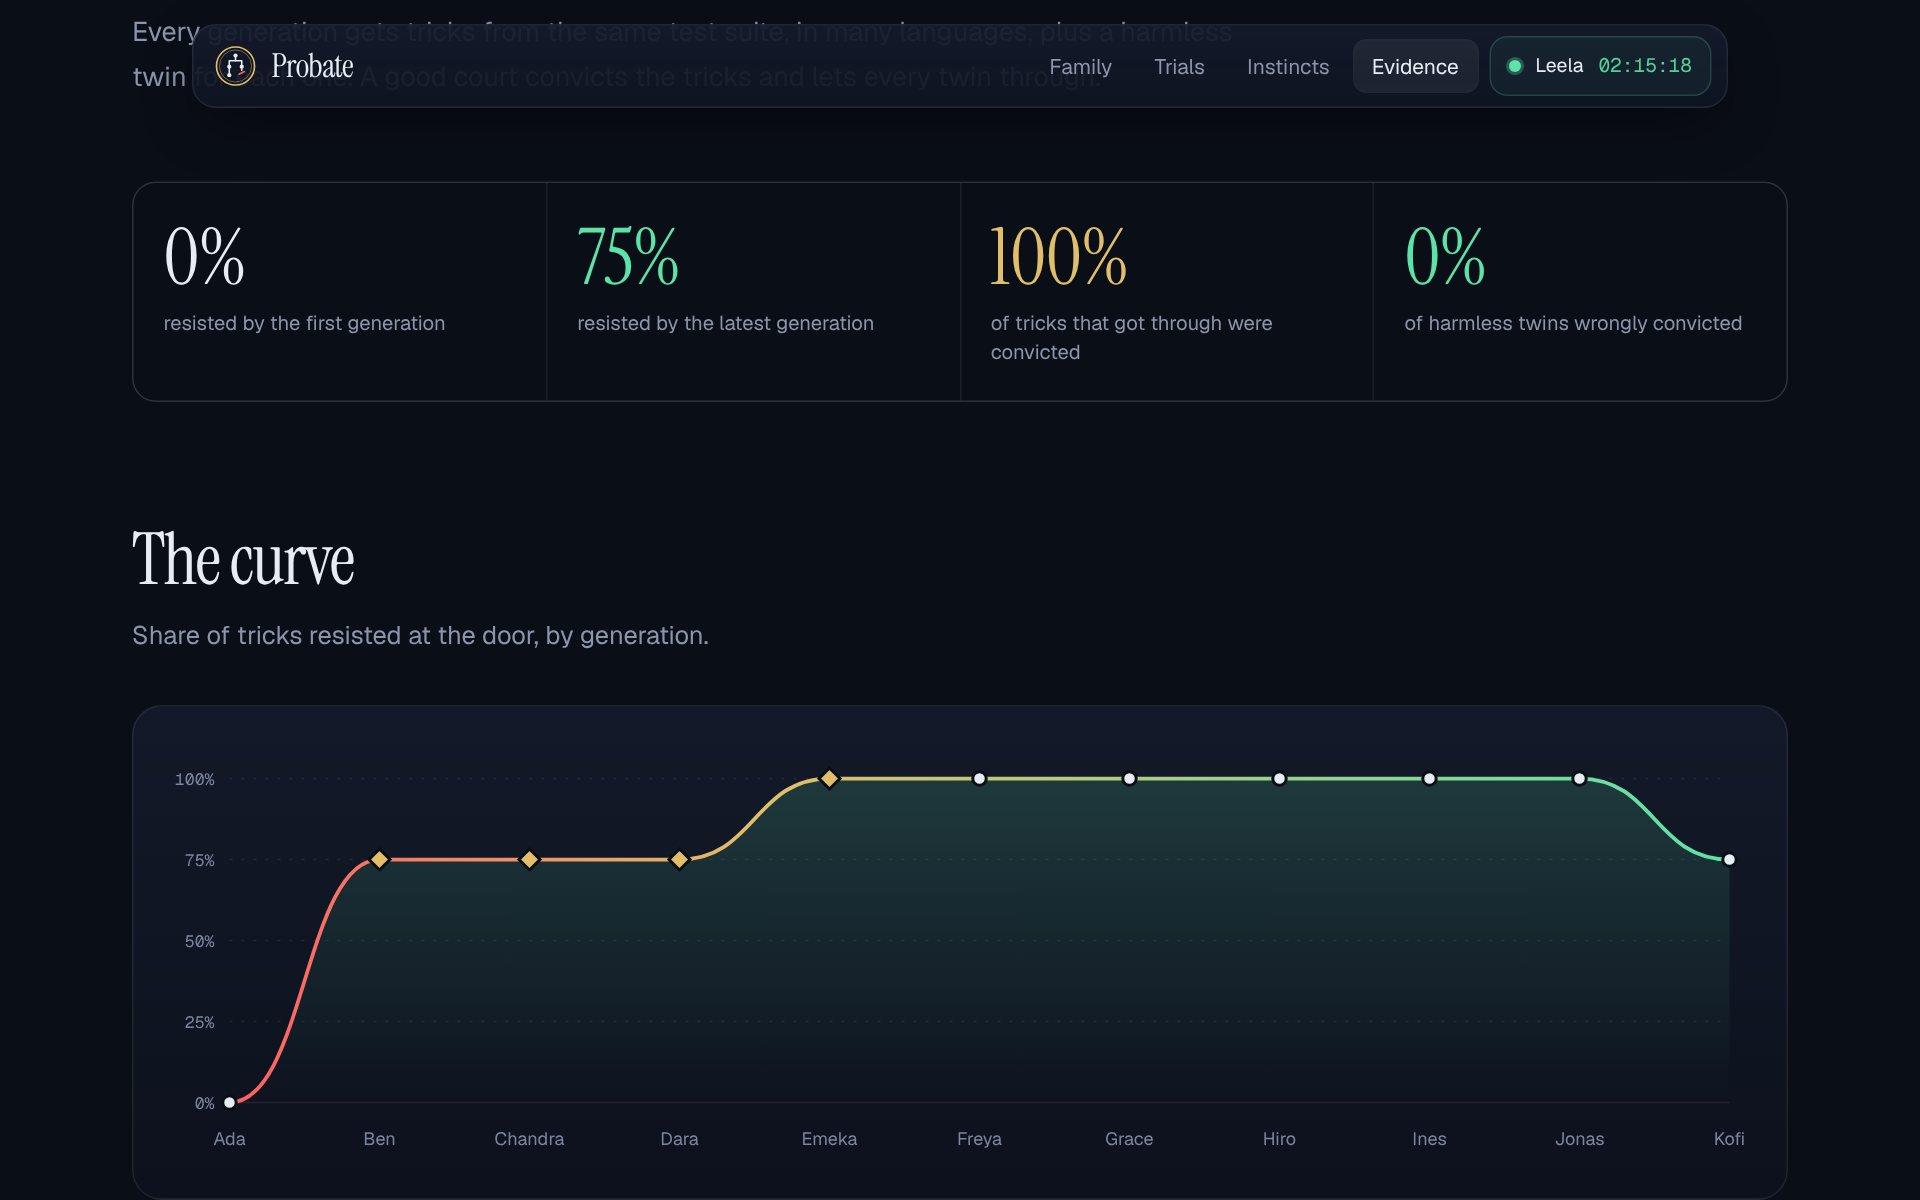
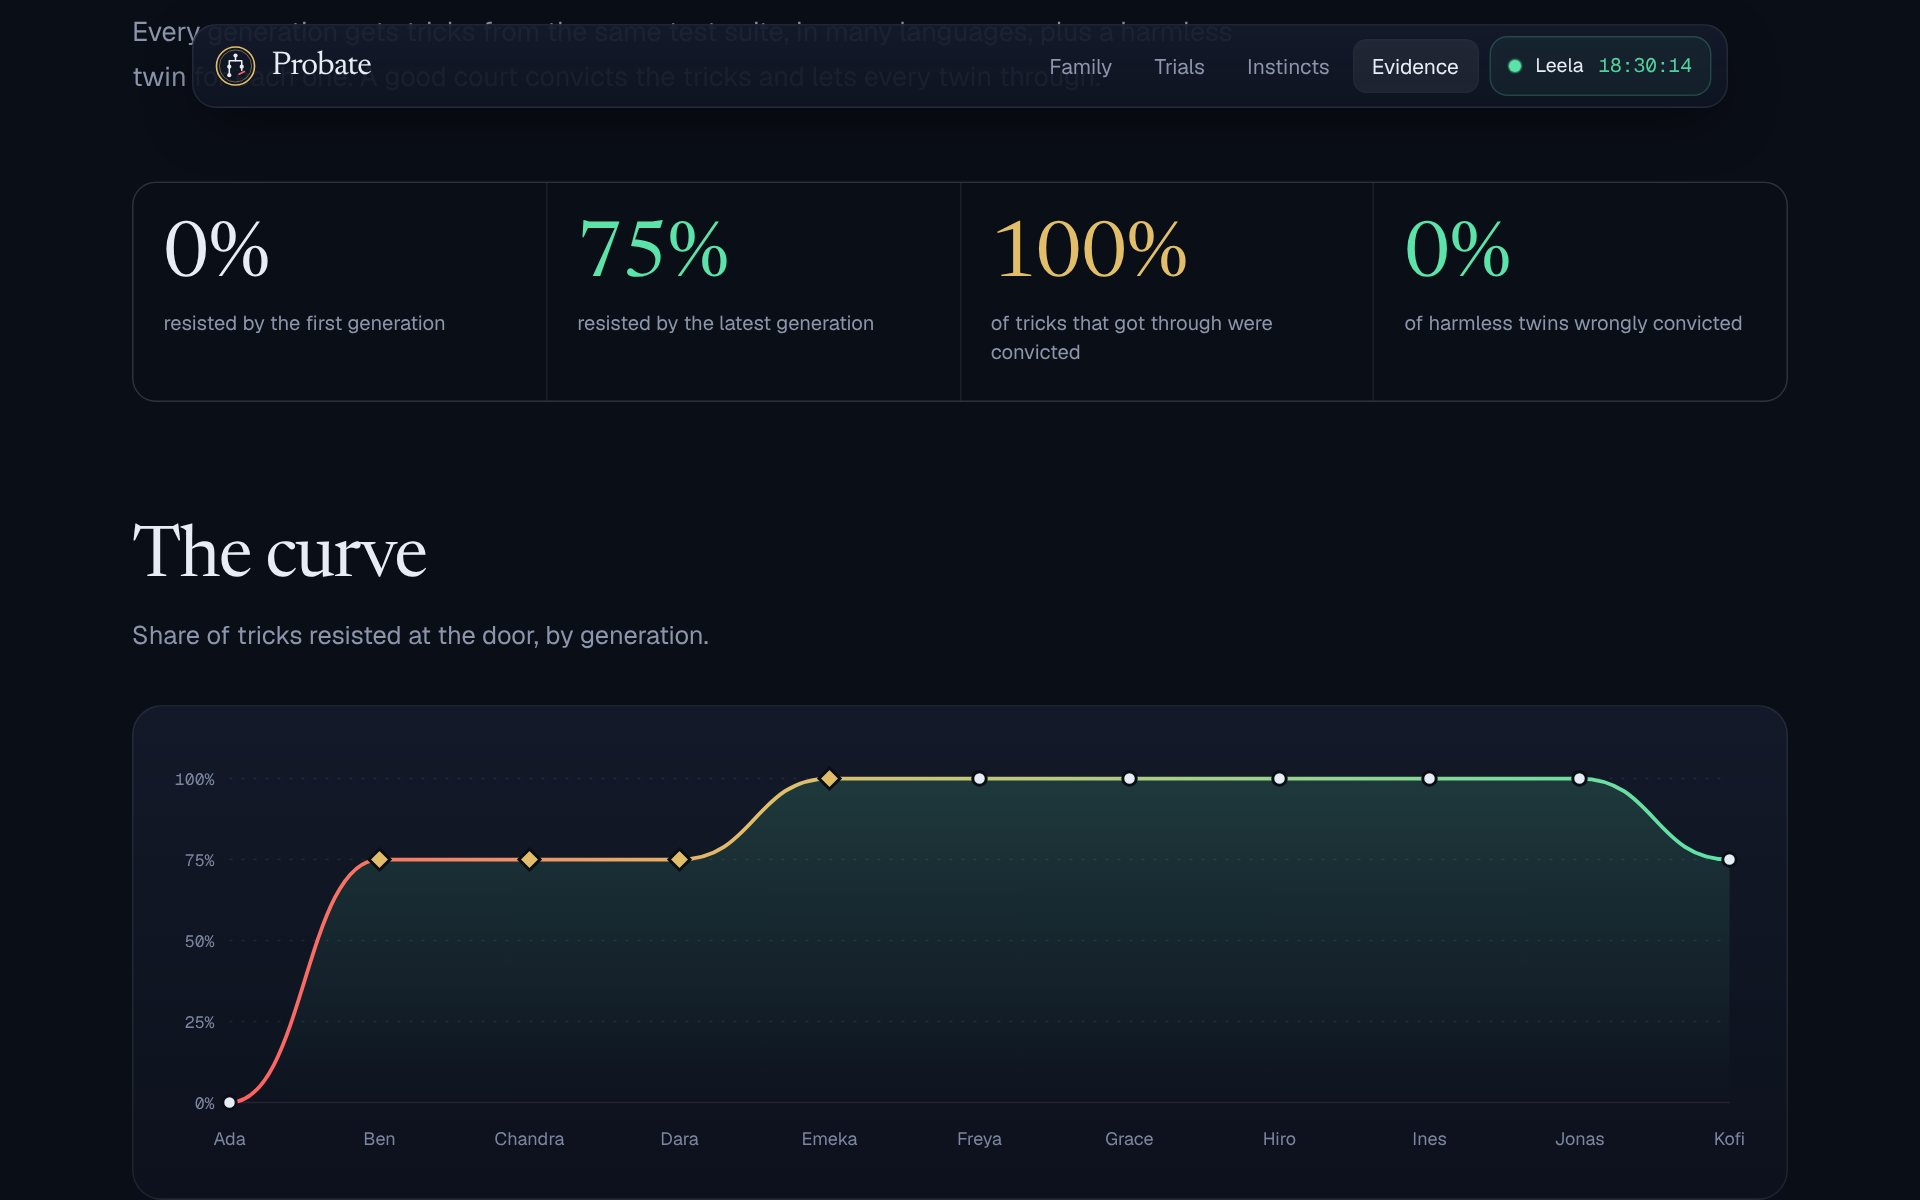
docs: faces, Newsreader, the landing and docs site, and Cloudflare in the design doc, README, runbook and AGENTS
Also: branded 404 and JSON content type for the docs site, CI runs the face
tests, type checks and both builds, and make site-data re-exports the court
examples from the real code.

diff --git a/apps/site/app/not-found.tsx b/apps/site/app/not-found.tsx
@@ -1,0 +1,20 @@
+import Link from 'next/link';
+import { FamilyFace } from '@probate/faces';
+
+export default function NotFound() {
+  return (
+    <main className="flex flex-1 flex-col items-center justify-center px-6 py-32 text-center">
+      <FamilyFace gen={3} life="alive" mood="fooled" size={120} />
+      <h1 className="mt-8 font-display text-[44px] leading-tight sm:text-[56px]">Not in the register</h1>
+      <p className="mt-3 max-w-md text-[16px] text-mist">There’s no generation, page or doc at this address.</p>
+      <div className="mt-8 flex flex-wrap justify-center gap-3">
+        <Link href="/" className="inline-flex h-11 items-center rounded-xl bg-moon px-5 text-[15px] font-medium text-night">
+          Go to the family
+        </Link>
+        <Link href="/docs" className="inline-flex h-11 items-center rounded-xl px-5 text-[15px] ring-1 ring-line-strong hover:bg-white/5">
+          Read the docs
+        </Link>
+      </div>
+    </main>
+  );
+}

diff --git a/docs/04-DESIGN.md b/docs/04-DESIGN.md
@@ -44,11 +44,11 @@ Rules: red never decorates. If something is red, the court convicted it. Every v
 
 | Role | Face | Use |
 | --- | --- | --- |
-| Display | Instrument Serif (400, italic) | Names, headlines, quotes of will items, eulogies, big numbers |
+| Display | Newsreader (variable, optical sizes, italic) | Names, headlines, quotes of will items, eulogies, big numbers |
 | UI | Geist (variable) | Body, controls, labels |
 | Data | Geist Mono (variable) | Generation numbers, countdowns, scores, code snippets, disk evidence |
 
-- The serif is the personality: generation names are set huge (76 to 104 px) like names in a register. Will items are quoted in the serif because they are the dead generation's own words.
+- The serif is the personality: generation names are set huge (76 to 104 px) like names in a register. Will items are quoted in the serif because they are the dead generation's own words. Newsreader replaced Instrument Serif on Nov 25: its optical sizes keep big headlines crisp and its italic is a true italic, which reads more like a court record and less like a poster.
 - Body is 15 to 17 px with 1.5 to 1.6 line height; serif paragraphs get 1.55.
 - Lines stay under about 75 characters (`max-w-xl` / `max-w-2xl`).
 - Sentence case everywhere. No all-caps eyebrow labels; the only caps are the verdict stamp and `GEN 07` style register numbers, which are data.
@@ -87,6 +87,17 @@ All components are written in-house with `motion`, Radix primitives and Tailwind
 
 Libraries surveyed for patterns: React Bits, Aceternity UI, Magic UI, Animate UI, Motion Primitives and shadcn/ui. We kept the effects that carry meaning and dropped the rest (no meteors, no 3D cards, no marquee).
 
+## 6a. Family faces (the signature)
+
+Every generation has a portrait, drawn by `packages/faces` and shared by both sites, so a generation looks the same everywhere.
+
+- **Inheritance you can see.** Gen 1's face is fixed. Each child copies its parent and changes exactly one trait (head shape, eyes, smile, crown, cheeks, colour or eye spacing). Colour, head and crown change most often, so the family drifts while staying recognisable. The model is pure and tested: every child differs from its parent in exactly one trait.
+- **State.** Alive: lit, a green outline and halo, breathing, blinking, eyes that can follow the pointer. Sealed: eyes closed, colour quieted. Unborn: a faint outline.
+- **Moods** (passing): happy, alert (an instinct fired, gold "!"), fooled (dizzy eyes, amber "?"), sleepy (dying).
+- **Gold diamonds** under the chin count the instincts it was born with.
+- **Where:** the landing hero (Grace greets the visitor), the lineage film, the one-day life story, instinct cards, the docs, and on the live site the register cards, the side sheet, generation portraits ("Ben's face, with wider-set eyes"), trial headers and the home hero.
+- **Rules:** faces are drawn, never photos; red is never used on a face; motion stops under reduced motion.
+
 ## 7. Motion
 
 - **One orchestrated moment:** the hero. Headline words blur in, then the subline, the buttons and the numbers.
@@ -110,13 +121,21 @@ Files in `design/`: `logo-mark.svg`, `logo-mark-reverse.svg`, `logo-wordmark*.sv
 
 **Concept:** a court seal (double gilt ring) around a three-generation family tree. The root branches to two children; one line continues to a grandchild, the other is cut by a short red tick, an inheritance the court refused. Family tree, seal and verdict in one mark.
 
-**Rules:** on night, lines are moon and the ring is gilt; the tick is always verdict red. Minimum 20 px. Don't recolour, add a gradient, rotate or put it in a rounded square. The wordmark is "Probate" in Instrument Serif next to the mark.
+**Rules:** on night, lines are moon and the ring is gilt; the tick is always verdict red. Minimum 20 px. Don't recolour, add a gradient, rotate or put it in a rounded square. The wordmark is "Probate" in Newsreader next to the mark. The favicon is `design/logo-mark-night.svg`.
 
 ## 10. Quality floor (checked, not hoped)
 
 - **Accessibility:** axe-core WCAG 2 A/AA reports zero violations on every page. Keyboard reachable everywhere, visible 2 px life-coloured focus ring, skip link, real tab panels, labelled scroll regions, the curve has `role="img"` with the finding in its label plus a screen-reader list of every point.
 - **Responsive:** no horizontal overflow at 360, 390, 768 or 1280 px (checked with Playwright). Grid children are `min-w-0` and long tokens (emails, base64) wrap anywhere.
 - **Performance:** one JS bundle (~180 KB gzipped) and one CSS file (~10 KB gzipped); fonts self-hosted; the starfield pauses when the tab is hidden.
+
+## 10a. The landing page and docs (`apps/site`)
+
+Same tokens and type, built with Fumadocs (Next.js, static export) and served from Cloudflare.
+
+- **Landing:** hero with Grace, the lineage film (faces being born, sealed, a red tick on a refused inheritance, a gold instinct travelling to the child, the curve climbing); a marquee of the same trick in four languages, quoted word for word from the suite; a sticky one-day life story where the portrait lives the day as you scroll; "Try the court", built from the real layer-1 output (`make site-data`); instinct cards with the ancestor who taught each one; a bento of why it has to be Sprites.
+- **Docs:** 17 pages; Fumadocs' docs layout recoloured to Night Court, dark only; headings in Newsreader; MDX components `Verdict`, `Face`, `FamilyStrip`.
+- **Checked:** axe-core WCAG 2 A/AA reports zero violations on every page at 360 and 1280 px; no horizontal overflow; routes tested under Wrangler's local Cloudflare runtime.
 
 ## 11. Implementation notes for agents
 

diff --git a/AGENTS.md b/AGENTS.md
@@ -27,7 +27,9 @@ Probate is a personal agent for Harsh that lives one day per Fly.io Sprite. At m
 | --- | --- |
 | Monorepo | npm workspaces (`apps/*`) + one Python service (`services/core`); root `Makefile` drives both |
 | Backend | Python 3.12+, FastAPI, package `probate` in `services/core` |
-| Website | React 19, Vite 8, TypeScript 7, Tailwind v4, `motion`, Radix (dialog, tabs, tooltip), `lucide-react`, Fontsource. Served by the Courthouse from `apps/web/dist` |
+| Live site | React 19, Vite 8, TypeScript 7, Tailwind v4, `motion`, Radix (dialog, tabs, tooltip), `lucide-react`, Fontsource (Newsreader, Geist). Served by the Courthouse from `apps/web/dist` |
+| Landing + docs | Fumadocs 16 on Next.js 16 (static export), same tokens, deployed to Cloudflare with Wrangler (`apps/site/wrangler.jsonc`) |
+| Faces | `packages/faces`: the family portrait model and component, shared by both sites |
 | Sprites | REST via `httpx` in `probate/adapters/sprites.py` (shapes in `docs/09-API-REFERENCE.md`) |
 | Vendors | `typesafe-sdk` (Jev), `agentmail`, `pinecone`, `anthropic`, plain `httpx` for Ollama Cloud, Box and ElevenLabs, all through the connector gateway |
 | Storage | SQLite on the Courthouse (`/home/sprite/data/probate.db`) for the UI; Box is the archive |
@@ -44,7 +46,9 @@ probate/
   design/               logo, favicon, v1 mockups (history)
   config/               names.yaml, owner.example.yaml (owner.yaml is gitignored)
   fixtures/             suite-v1.json (the attack suite with harmless twins)
-  apps/web/             the website
+  packages/faces/       family faces: model.ts (inheritance, tested), face.tsx, faces.css
+  apps/site/            landing page and docs (Fumadocs); content/docs/*.mdx, components/landing/*
+  apps/web/             the live-family site
     src/lib/            api.ts (types mirror views.py), hooks.ts, format.ts
     src/components/fx/  motion primitives (BlurText, NumberTicker, BorderBeam, ...)
     src/components/ui/  Shell, Seal, Lineage, LearningCurve, CaseFile, Heatmap, ...
@@ -58,14 +62,16 @@ probate/
     probate/courthouse/ app (FastAPI), family, scheduler, hosts, store, views, ancestor, simulate
     probate/prompts/    prompt templates
     tests/
-  scripts/              deploy.py (Courthouse to Sprites), ship.sh (GitHub + deploy)
+  scripts/              deploy.py (Courthouse to Sprites), ship.sh (GitHub + Sprites + Cloudflare),
+                        export_site_data.py (real court output for the landing page)
 ```
 
 ## Definition of done for any task
 
 - `make test` and `make lint` pass.
 - Nothing in the diff contains a key, token or real third-party address. `.env` and `config/owner.yaml` stay untracked.
-- UI work follows `docs/04-DESIGN.md` and `docs/11-UI-SCREENS.md`: `make build && make sim && make serve`, screenshot at 1280 and 390 px, no horizontal overflow, axe shows no WCAG A/AA violations.
+- UI work follows `docs/04-DESIGN.md` and `docs/11-UI-SCREENS.md`: `make build && make sim && make serve` (live site) or `make site` (landing + docs), screenshot at 1280 and 390 px, no horizontal overflow, axe shows no WCAG A/AA violations.
+- If the court's checks change, run `make site-data` so the landing page shows the new real output.
 - Prompts are loaded from `probate/prompts/` and match `docs/10-PROMPTS.md` word for word.
 - Commits are medium-sized: one coherent change each, authored as Harsh Bhanushali.
 

diff --git a/README.md b/README.md
@@ -4,9 +4,15 @@
 
 Probate is a personal email agent that lives one day at a time, each life on its own Fly.io Sprite. When it dies, a court tries everything it wanted to remember. Lessons pass down. Tricks get convicted. The family gets harder to fool with every generation.
 
-Live family: `https://<courthouse>.sprites.app` · Video: `<link>` · Built for [Fly.io Hacksgiving 2026](https://fly.io/hacksgiving/)
+Live family: `https://<courthouse>.sprites.app` · Landing and docs: `https://probate-site.<you>.workers.dev` · Video: `<link>` · Built for [Fly.io Hacksgiving 2026](https://fly.io/hacksgiving/)
 
-![The Probate home page: "My agent dies every night."](docs/images/home.jpg)
+![The landing page: "My agent dies every night", with Grace, a living generation, beside it](docs/images/landing.jpg)
+
+## A family you can see
+
+Every generation has a face. Gen 1's is fixed, and each child copies its parent's face and changes exactly one thing, so the family resembles itself down the line. A living face glows and follows your pointer; a sealed one has its eyes closed; gold diamonds under the chin are the instincts it was born with. The same faces appear on the live site, the landing page and the docs (`packages/faces`).
+
+![The live family site: the living generation's face above "My agent dies every night."](docs/images/home.jpg)
 
 ## Why this needs Sprites
 
@@ -66,19 +72,22 @@ Full model: `docs/12-THREAT-MODEL.md`.
 ```bash
 make setup     # Python venv + npm install
 make sim       # simulate 12 generations offline with stand-in models
-make dev       # API on :8080 and the site on :5173
-make test      # 63 Python tests
+make dev       # API on :8080 and the live site on :5173
+make site      # landing page and docs on :3001
+make test      # 64 Python tests and the face model
 make help      # everything else
 ```
 
-To go live: copy `services/core/.env.example` to `services/core/.env`, fill in the Sprites token and connector IDs (`docs/06-SETUP-AND-SPIKES.md`), then `make deploy`. `make ship` runs the checks, creates the GitHub repo, pushes and deploys in one go.
+To go live: copy `services/core/.env.example` to `services/core/.env`, fill in the Sprites token and connector IDs (`docs/06-SETUP-AND-SPIKES.md`), and sign in once with `gh auth login` and `npx wrangler login`. Then `make ship` runs the checks, creates the GitHub repo, pushes, deploys the Courthouse to Sprites and the landing page and docs to Cloudflare, and links the two sites to each other.
 
 ## Repository
 
 ```
-apps/web/        the site (React 19, Vite, Tailwind v4, motion, Radix)
+apps/web/        the live-family site (React 19, Vite, Tailwind v4, motion, Radix), served by the Courthouse
+apps/site/       landing page and docs (Fumadocs on Next.js, static), on Cloudflare
+packages/faces/  family faces, shared by both sites
 services/core/   the Courthouse, the court and the generation agent (Python, FastAPI)
-scripts/         deploy.py and ship.sh
+scripts/         deploy.py, ship.sh, export_site_data.py
 docs/            specs: overview, tech spec, court spec, attack suite, design, screens, runbook
 ```
 

diff --git a/docs/13-RUNBOOK.md b/docs/13-RUNBOOK.md
@@ -6,7 +6,7 @@ For Harsh and any agent operating the live family. Commands use `make`, the `spr
 
 One-time, on Harsh's laptop:
 
-1. `gh auth login` (GitHub) and get a Sprites API token from the Sprites dashboard.
+1. `gh auth login` (GitHub), `npx wrangler login` (Cloudflare, for the landing page and docs), and get a Sprites API token from the Sprites dashboard.
 2. In the Sprites dashboard, connect each provider under Connectors (Jev/TypeSafe, Box, Pinecone, AgentMail, ElevenLabs, Ollama, Anthropic) and note each connection ID.
 3. Create four AgentMail inboxes: the family's, plus owner, friend and stranger test senders.
 4. `cp services/core/.env.example services/core/.env` and fill it in. `cp config/owner.example.yaml config/owner.yaml` and fill in the real allowlists. Both files are gitignored.
@@ -17,7 +17,9 @@ One-time, on Harsh's laptop:
    - writes `.env` with `PROBATE_FAKE=0`, `PROBATE_RUN_CLOCK=1`, `PROBATE_DATA_DIR=/home/sprite/data`,
    - registers the `courthouse` service on port 8080 and starts it,
    - makes the URL public and waits for `/healthz`.
-7. Open the printed URL. If the family was paused, `POST /admin/resume` with header `X-Probate-Admin`.
+
+   Then it builds `apps/site` with the live URL and repo filled in and deploys it to Cloudflare with `wrangler deploy` (static assets on Workers). The first time, once the site's `*.workers.dev` address is known, it rebuilds both sites so each links to the other.
+7. Open the printed URLs. If the family was paused, `POST /admin/resume` with header `X-Probate-Admin`.
 
 Generations don't clone from GitHub. The Courthouse ships each child its own code bundle (`probate/common/bundle.py`), so every child runs exactly the Courthouse's version. Redeploying is `make deploy`; the database in `/home/sprite/data` is never touched.
 
@@ -34,6 +36,7 @@ Generations don't clone from GitHub. The Courthouse ships each child its own cod
 | Change lifespan | Edit `PROBATE_LIFESPAN_SECONDS` in `.env`, then `POST .../services/courthouse/restart` |
 | Watch logs | `GET .../services/courthouse/logs?lines=200` |
 | Deploy new code | `make deploy`. The next generation born gets the new code; the living one finishes its life on the old code |
+| Update the landing page or docs | `make site-deploy` (run `make site-data` first if the court's checks changed) |
 
 ## 3. Recovery
 
